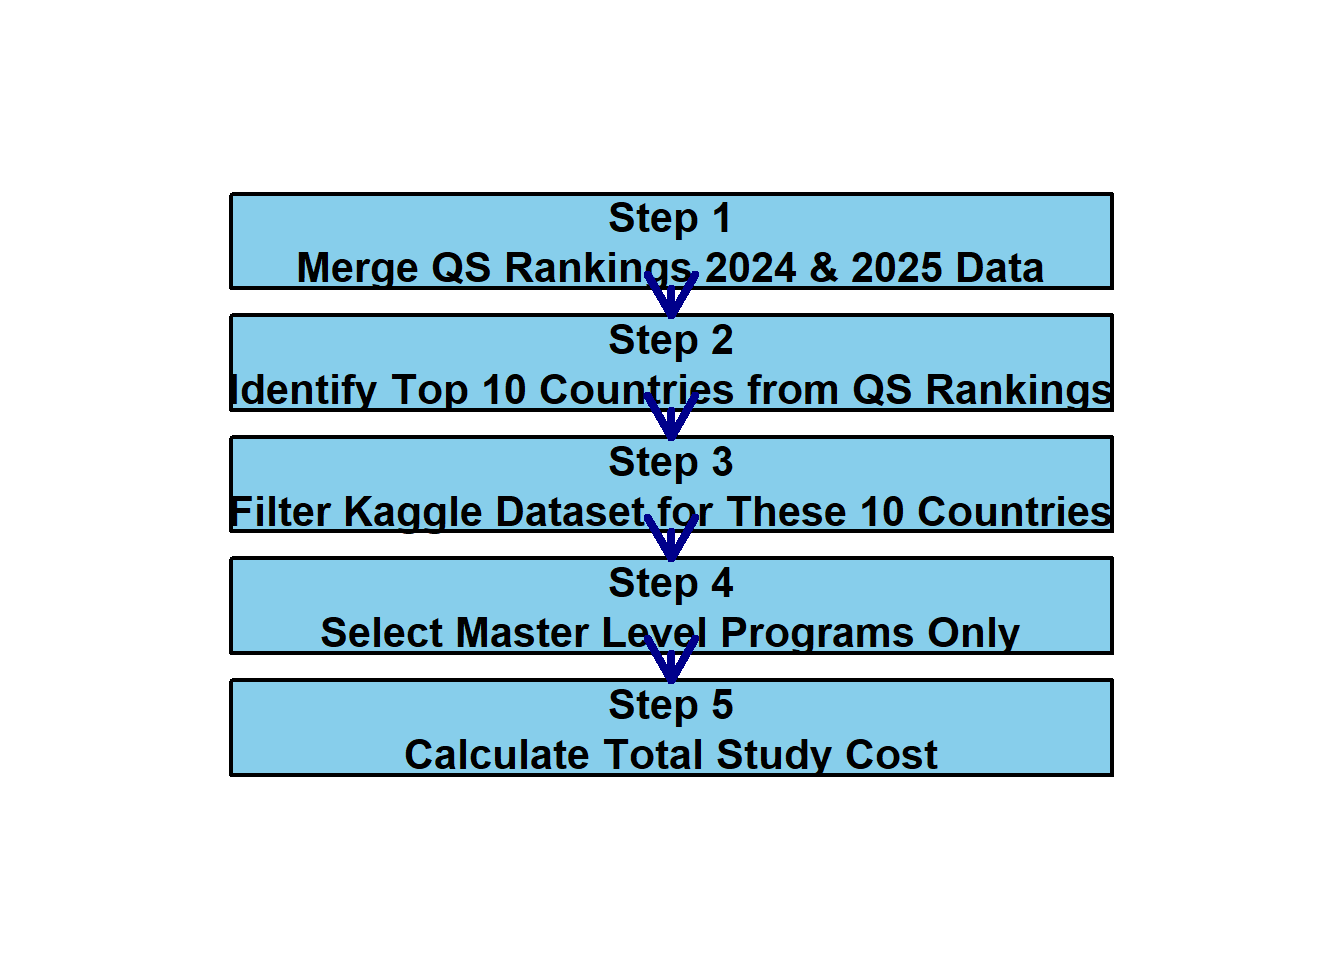
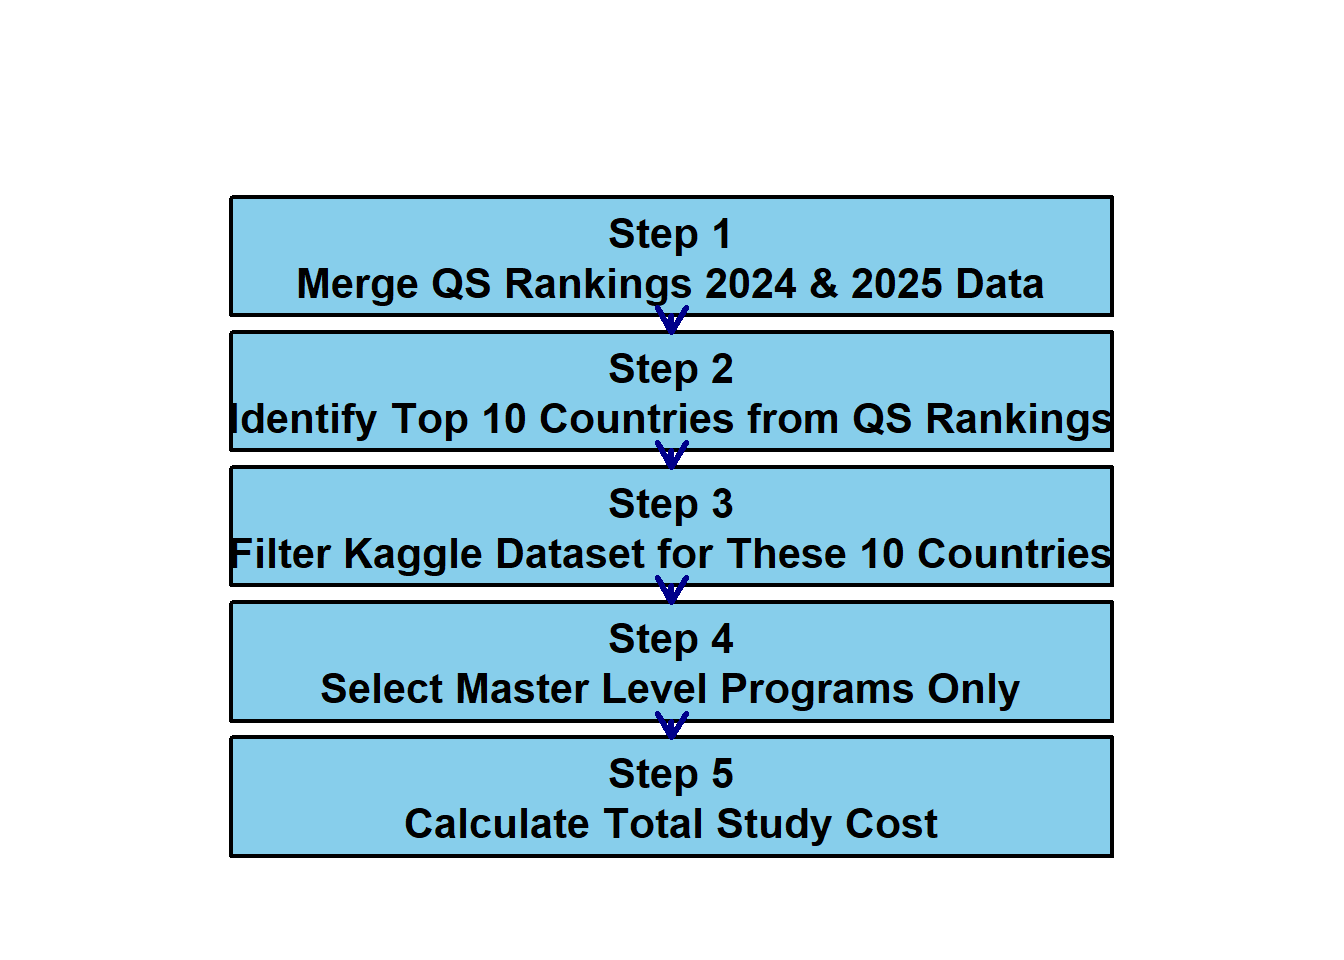
Update detail information

Changed region(s): [[0.1562, 0.1875, 0.8438, 0.9062]]

diff --git a/assignment3.html b/assignment3.html
@@ -2,7 +2,7 @@
 <html xmlns="http://www.w3.org/1999/xhtml" lang="en" xml:lang="en"><head>
 
 <meta charset="utf-8">
-<meta name="generator" content="quarto-1.5.57">
+<meta name="generator" content="quarto-1.6.42">
 
 <meta name="viewport" content="width=device-width, initial-scale=1.0, user-scalable=yes">
 
@@ -23,40 +23,6 @@ ul.task-list li input[type="checkbox"] {
   margin: 0 0.8em 0.2em -1em; /* quarto-specific, see https://github.com/quarto-dev/quarto-cli/issues/4556 */ 
   vertical-align: middle;
 }
-/* CSS for syntax highlighting */
-pre > code.sourceCode { white-space: pre; position: relative; }
-pre > code.sourceCode > span { line-height: 1.25; }
-pre > code.sourceCode > span:empty { height: 1.2em; }
-.sourceCode { overflow: visible; }
-code.sourceCode > span { color: inherit; text-decoration: inherit; }
-div.sourceCode { margin: 1em 0; }
-pre.sourceCode { margin: 0; }
-@media screen {
-div.sourceCode { overflow: auto; }
-}
-@media print {
-pre > code.sourceCode { white-space: pre-wrap; }
-pre > code.sourceCode > span { display: inline-block; text-indent: -5em; padding-left: 5em; }
-}
-pre.numberSource code
-  { counter-reset: source-line 0; }
-pre.numberSource code > span
-  { position: relative; left: -4em; counter-increment: source-line; }
-pre.numberSource code > span > a:first-child::before
-  { content: counter(source-line);
-    position: relative; left: -1em; text-align: right; vertical-align: baseline;
-    border: none; display: inline-block;
-    -webkit-touch-callout: none; -webkit-user-select: none;
-    -khtml-user-select: none; -moz-user-select: none;
-    -ms-user-select: none; user-select: none;
-    padding: 0 4px; width: 4em;
-  }
-pre.numberSource { margin-left: 3em;  padding-left: 4px; }
-div.sourceCode
-  {   }
-@media screen {
-pre > code.sourceCode > span > a:first-child::before { text-decoration: underline; }
-}
 </style>
 
 
@@ -66,21 +32,14 @@ pre > code.sourceCode > span > a:first-child::before { text-decoration: underlin
 <script src="assignment3_files/libs/quarto-html/tippy.umd.min.js"></script>
 <script src="assignment3_files/libs/quarto-html/anchor.min.js"></script>
 <link href="assignment3_files/libs/quarto-html/tippy.css" rel="stylesheet">
-<link href="assignment3_files/libs/quarto-html/quarto-syntax-highlighting.css" rel="stylesheet" id="quarto-text-highlighting-styles">
+<link href="assignment3_files/libs/quarto-html/quarto-syntax-highlighting-2f5df379a58b258e96c21c0638c20c03.css" rel="stylesheet" id="quarto-text-highlighting-styles">
 <script src="assignment3_files/libs/bootstrap/bootstrap.min.js"></script>
 <link href="assignment3_files/libs/bootstrap/bootstrap-icons.css" rel="stylesheet">
-<<<<<<< Updated upstream
-<link href="assignment3_files/libs/bootstrap/bootstrap.min.css" rel="stylesheet" id="quarto-bootstrap" data-mode="light">
-<link href="assignment3_files/libs/htmltools-fill-0.5.8.1/fill.css" rel="stylesheet">
-<script src="assignment3_files/libs/htmlwidgets-1.6.4/htmlwidgets.js"></script>
-<script src="assignment3_files/libs/viz-1.8.2/viz.js"></script>
-<link href="assignment3_files/libs/DiagrammeR-styles-0.2/styles.css" rel="stylesheet">
-<script src="assignment3_files/libs/grViz-binding-1.0.11/grViz.js"></script>
-=======
 <link href="assignment3_files/libs/bootstrap/bootstrap-32162a2fca7cb0439643f2faaab1edf3.min.css" rel="stylesheet" append-hash="true" id="quarto-bootstrap" data-mode="light">
->>>>>>> Stashed changes
 <script src="assignment3_files/libs/kePrint-0.0.1/kePrint.js"></script>
+
 <link href="assignment3_files/libs/lightable-0.0.1/lightable.css" rel="stylesheet">
+
 
 
 </head>
@@ -162,30 +121,8 @@ pre > code.sourceCode > span > a:first-child::before { text-decoration: underlin
 <div class="cell-output-display">
 <div id="fig-methodology-flowchart" class="quarto-float quarto-figure quarto-figure-center anchored">
 <figure class="quarto-float quarto-float-fig figure">
-<<<<<<< Updated upstream
-<div aria-describedby="fig-methodology-caption-0ceaefa1-69ba-4598-a22c-09a6ac19f8ca">
-<div class="grViz html-widget html-widget-output shiny-report-size html-fill-item" id="
-digraph flowchart {
-  node [fontname = Arial, 
-  shape = rectangle, 
-  style = filled, 
-  fillcolor = lightblue, 
-  fontsize = 10]
-  edge [fontname = Arial]
-  
-  A [label = 'Merge QS Rankings\n2024 &amp; 2025 Data']
-  B [label = 'Identify Top 10 Countries\nfrom QS Rankings']
-  C [label = 'Filter Kaggle Dataset\nfor These 10 Countries']
-  D [label = 'Select Masters Level\nPrograms Only']
-  E [label = 'Calculate Total Study Cost\n(Tuition + Rent + Visa + Insurance)']
-  
-  A -> B -> C -> D -> E
-}
-" style="width:100%;height:400px;"></div>
-=======
 <div aria-describedby="fig-methodology-flowchart-caption-0ceaefa1-69ba-4598-a22c-09a6ac19f8ca">
 <img src="assignment3_files/figure-html/fig-methodology-flowchart-1.png" class="img-fluid figure-img" width="672">
->>>>>>> Stashed changes
 </div>
 <figcaption class="quarto-float-caption-bottom quarto-float-caption quarto-float-fig" id="fig-methodology-flowchart-caption-0ceaefa1-69ba-4598-a22c-09a6ac19f8ca">
 Figure&nbsp;1: Five-Stage Data Processing Framework for International Education Cost Analysis
@@ -262,76 +199,9 @@ Table&nbsp;1: Data Processing Pipeline: Detailed Breakdown of Analysis Stages, R
 <section id="results" class="level2" data-number="4">
 <h2 data-number="4" class="anchored" data-anchor-id="results"><span class="header-section-number">4</span> Results</h2>
 <p>We analyzed the average total cost of studying a Master’s program across the top 10 QS-ranked countries. This includes tuition, rent, visa fees, and insurance.</p>
-<hr>
 <section id="load-and-prepare-data" class="level3" data-number="4.1">
 <h3 data-number="4.1" class="anchored" data-anchor-id="load-and-prepare-data"><span class="header-section-number">4.1</span> Load and Prepare Data</h3>
-<<<<<<< Updated upstream
 <p>We loaded two datasets — one from QS Rankings and another from Kaggle on education costs. The data was cleaned, aggregated, and merged using R to create a summarized table of average tuition, rent, and total cost by country.</p>
-=======
-<div class="cell">
-<div class="sourceCode cell-code" id="cb1"><pre class="sourceCode r code-with-copy"><code class="sourceCode r"><span id="cb1-1"><a href="#cb1-1" aria-hidden="true" tabindex="-1"></a><span class="do">### Load and Prepare Data</span></span>
-<span id="cb1-2"><a href="#cb1-2" aria-hidden="true" tabindex="-1"></a><span class="co">#| message: false</span></span>
-<span id="cb1-3"><a href="#cb1-3" aria-hidden="true" tabindex="-1"></a><span class="co">#| warning: false</span></span>
-<span id="cb1-4"><a href="#cb1-4" aria-hidden="true" tabindex="-1"></a><span class="co">#| echo: false</span></span>
-<span id="cb1-5"><a href="#cb1-5" aria-hidden="true" tabindex="-1"></a></span>
-<span id="cb1-6"><a href="#cb1-6" aria-hidden="true" tabindex="-1"></a><span class="fu">library</span>(dplyr)</span></code><button title="Copy to Clipboard" class="code-copy-button"><i class="bi"></i></button></pre></div>
-<div class="cell-output cell-output-stderr">
-<pre><code>
-Attaching package: 'dplyr'</code></pre>
-</div>
-<div class="cell-output cell-output-stderr">
-<pre><code>The following object is masked from 'package:kableExtra':
-
-    group_rows</code></pre>
-</div>
-<div class="cell-output cell-output-stderr">
-<pre><code>The following objects are masked from 'package:stats':
-
-    filter, lag</code></pre>
-</div>
-<div class="cell-output cell-output-stderr">
-<pre><code>The following objects are masked from 'package:base':
-
-    intersect, setdiff, setequal, union</code></pre>
-</div>
-<div class="sourceCode cell-code" id="cb6"><pre class="sourceCode r code-with-copy"><code class="sourceCode r"><span id="cb6-1"><a href="#cb6-1" aria-hidden="true" tabindex="-1"></a><span class="fu">library</span>(readr)</span>
-<span id="cb6-2"><a href="#cb6-2" aria-hidden="true" tabindex="-1"></a></span>
-<span id="cb6-3"><a href="#cb6-3" aria-hidden="true" tabindex="-1"></a>df <span class="ot">&lt;-</span> <span class="fu">read_csv</span>(<span class="st">"data/cleaned_education_costs.csv"</span>)</span></code><button title="Copy to Clipboard" class="code-copy-button"><i class="bi"></i></button></pre></div>
-<div class="cell-output cell-output-stderr">
-<pre><code>Rows: 204 Columns: 9</code></pre>
-</div>
-<div class="cell-output cell-output-stderr">
-<pre><code>── Column specification ────────────────────────────────────────────────────────
-Delimiter: ","
-chr (3): Country, University, Program
-dbl (6): Duration_Years, Tuition_USD, Rent_USD, Visa_Fee_USD, Insurance_USD,...
-
-ℹ Use `spec()` to retrieve the full column specification for this data.
-ℹ Specify the column types or set `show_col_types = FALSE` to quiet this message.</code></pre>
-</div>
-<div class="sourceCode cell-code" id="cb9"><pre class="sourceCode r code-with-copy"><code class="sourceCode r"><span id="cb9-1"><a href="#cb9-1" aria-hidden="true" tabindex="-1"></a>qs_df <span class="ot">&lt;-</span> <span class="fu">read_csv</span>(<span class="st">"data/top_countries.csv"</span>)</span></code><button title="Copy to Clipboard" class="code-copy-button"><i class="bi"></i></button></pre></div>
-<div class="cell-output cell-output-stderr">
-<pre><code>Rows: 11 Columns: 2
-── Column specification ────────────────────────────────────────────────────────
-Delimiter: ","
-chr (1): Country
-dbl (1): Top100_Count
-
-ℹ Use `spec()` to retrieve the full column specification for this data.
-ℹ Specify the column types or set `show_col_types = FALSE` to quiet this message.</code></pre>
-</div>
-<div class="sourceCode cell-code" id="cb11"><pre class="sourceCode r code-with-copy"><code class="sourceCode r"><span id="cb11-1"><a href="#cb11-1" aria-hidden="true" tabindex="-1"></a>summary_df <span class="ot">&lt;-</span> df <span class="sc">%&gt;%</span></span>
-<span id="cb11-2"><a href="#cb11-2" aria-hidden="true" tabindex="-1"></a>  <span class="fu">group_by</span>(Country) <span class="sc">%&gt;%</span></span>
-<span id="cb11-3"><a href="#cb11-3" aria-hidden="true" tabindex="-1"></a>  <span class="fu">summarise</span>(</span>
-<span id="cb11-4"><a href="#cb11-4" aria-hidden="true" tabindex="-1"></a>    <span class="st">`</span><span class="at">Average Tuition</span><span class="st">`</span> <span class="ot">=</span> <span class="fu">round</span>(<span class="fu">mean</span>(Tuition_USD), <span class="dv">0</span>),</span>
-<span id="cb11-5"><a href="#cb11-5" aria-hidden="true" tabindex="-1"></a>    <span class="st">`</span><span class="at">Average Rent</span><span class="st">`</span> <span class="ot">=</span> <span class="fu">round</span>(<span class="fu">mean</span>(Rent_USD <span class="sc">*</span> <span class="dv">12</span> <span class="sc">*</span> Duration_Years), <span class="dv">0</span>),</span>
-<span id="cb11-6"><a href="#cb11-6" aria-hidden="true" tabindex="-1"></a>    <span class="st">`</span><span class="at">Average Total Cost</span><span class="st">`</span> <span class="ot">=</span> <span class="fu">round</span>(<span class="fu">mean</span>(Total_Cost_USD), <span class="dv">0</span>),</span>
-<span id="cb11-7"><a href="#cb11-7" aria-hidden="true" tabindex="-1"></a>    <span class="at">.groups =</span> <span class="st">"drop"</span></span>
-<span id="cb11-8"><a href="#cb11-8" aria-hidden="true" tabindex="-1"></a>  )</span>
-<span id="cb11-9"><a href="#cb11-9" aria-hidden="true" tabindex="-1"></a></span>
-<span id="cb11-10"><a href="#cb11-10" aria-hidden="true" tabindex="-1"></a>merged_df <span class="ot">&lt;-</span> <span class="fu">left_join</span>(summary_df, qs_df, <span class="at">by =</span> <span class="st">"Country"</span>)</span></code><button title="Copy to Clipboard" class="code-copy-button"><i class="bi"></i></button></pre></div>
-</div>
->>>>>>> Stashed changes
 </section>
 <section id="table-2-country-ranking-by-total-study-cost" class="level3" data-number="4.2">
 <h3 data-number="4.2" class="anchored" data-anchor-id="table-2-country-ranking-by-total-study-cost"><span class="header-section-number">4.2</span> Table 2: Country Ranking by Total Study Cost</h3>
@@ -474,10 +344,17 @@ Figure&nbsp;2: Average total cost of studying Master’s degree across the top-r
 <section id="references" class="level2" data-number="8">
 <h2 data-number="8" class="anchored" data-anchor-id="references"><span class="header-section-number">8</span> References</h2>
 <ol type="1">
-<li><p><em>Kaggle. (2024). Cost of International Education Dataset.</em> Retrieved from <a href="https://www.kaggle.com/datasets/adilshamim8/cost-of-international-education" class="uri">https://www.kaggle.com/datasets/adilshamim8/cost-of-international-education</a></p></li>
-<li><p><em>QS World University Rankings 2024.</em> Retrieved from <a href="https://www.kaggle.com/datasets/darrylljk/worlds-best-universities-qs-rankings-2025" class="uri">https://www.kaggle.com/datasets/darrylljk/worlds-best-universities-qs-rankings-2025</a></p></li>
-<li><p><em>QS World University Rankings 2025.</em> Retrieved from <a href="https://www.kaggle.com/datasets/joebeachcapital/qs-world-university-rankings-2024" class="uri">https://www.kaggle.com/datasets/joebeachcapital/qs-world-university-rankings-2024</a></p></li>
+<li><em>Kaggle. (2024). Cost of International Education Dataset.</em> Retrieved from</li>
 </ol>
+<p><a href="https://www.kaggle.com/datasets/adilshamim8/cost-of-international-education" class="uri">https://www.kaggle.com/datasets/adilshamim8/cost-of-international-education</a></p>
+<ol start="2" type="1">
+<li><em>QS World University Rankings 2024.</em> Retrieved from</li>
+</ol>
+<p><a href="https://www.kaggle.com/datasets/darrylljk/worlds-best-universities-qs-rankings-2025" class="uri">https://www.kaggle.com/datasets/darrylljk/worlds-best-universities-qs-rankings-2025</a></p>
+<ol start="3" type="1">
+<li><em>QS World University Rankings 2025.</em> Retrieved from</li>
+</ol>
+<p><a href="https://www.kaggle.com/datasets/joebeachcapital/qs-world-university-rankings-2024" class="uri">https://www.kaggle.com/datasets/joebeachcapital/qs-world-university-rankings-2024</a></p>
 </section>
 
 </main>
@@ -564,8 +441,6 @@ window.document.addEventListener("DOMContentLoaded", function (event) {
   });
   clipboard.on('success', onCopySuccess);
   if (window.document.getElementById('quarto-embedded-source-code-modal')) {
-    // For code content inside modals, clipBoardJS needs to be initialized with a container option
-    // TODO: Check when it could be a function (https://github.com/zenorocha/clipboard.js/issues/860)
     const clipboardModal = new window.ClipboardJS('.code-copy-button[data-in-quarto-modal]', {
       text: getTextToCopy,
       container: window.document.getElementById('quarto-embedded-source-code-modal')
@@ -676,7 +551,6 @@ window.document.addEventListener("DOMContentLoaded", function (event) {
       if (window.Quarto?.typesetMath) {
         window.Quarto.typesetMath(note);
       }
-      // TODO in 1.5, we should make sure this works without a callout special case
       if (note.classList.contains("callout")) {
         return note.outerHTML;
       } else {
